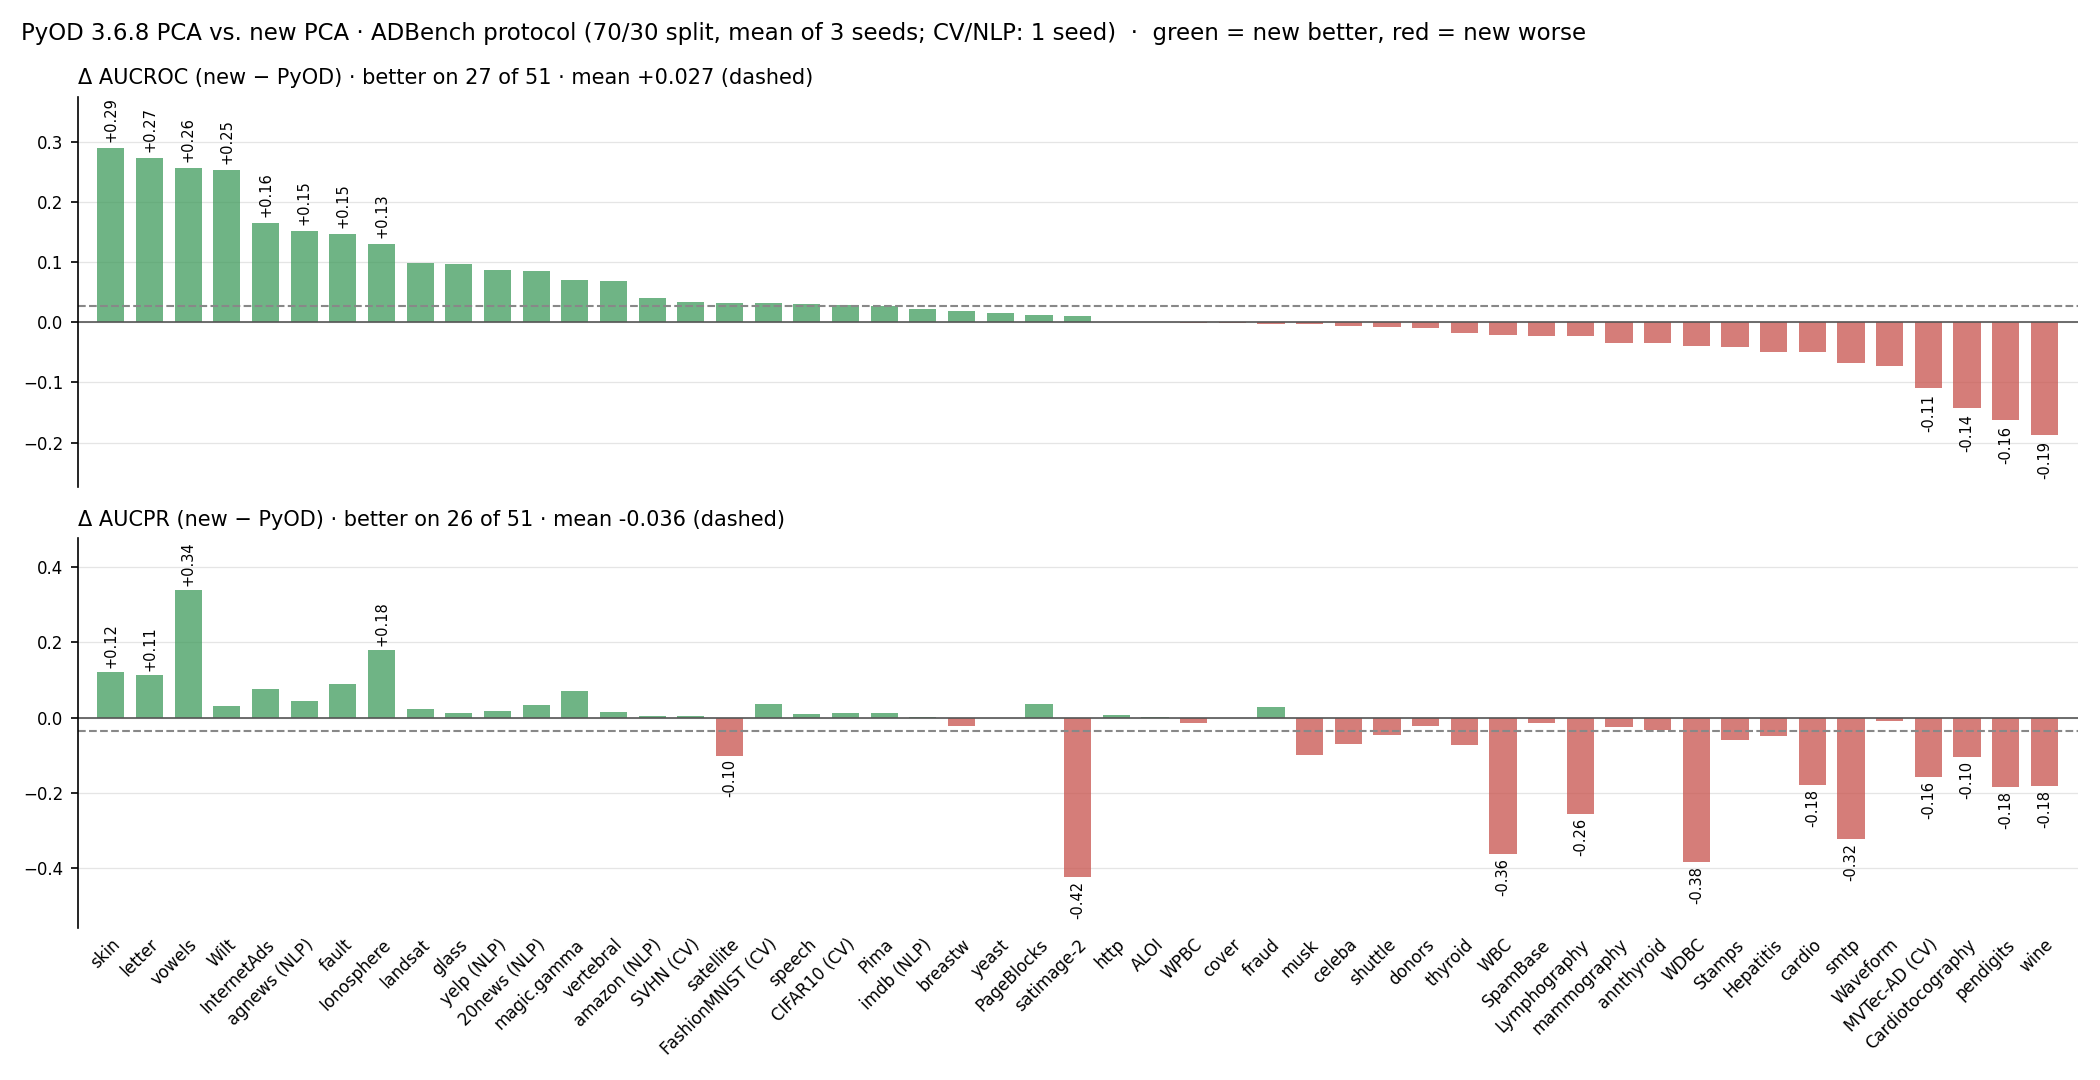
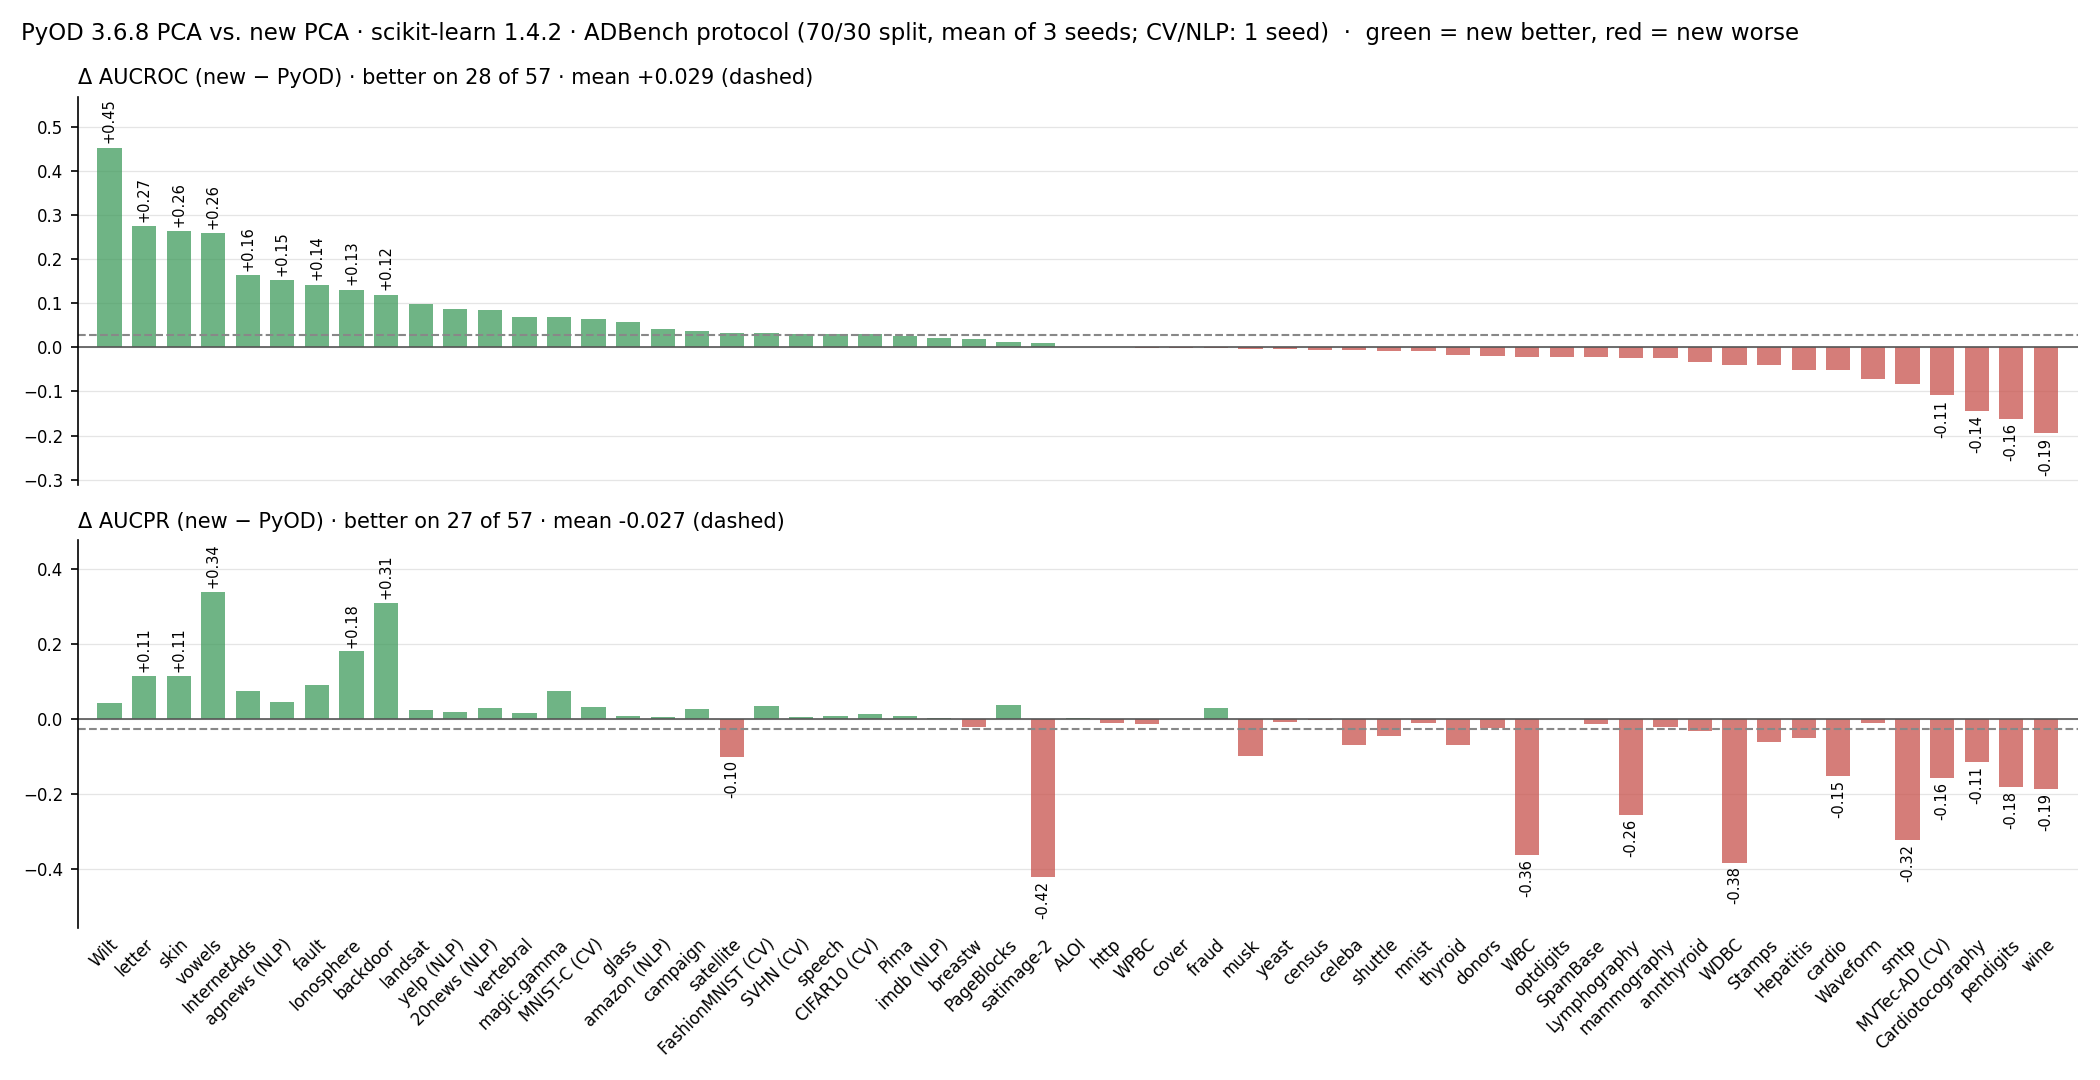
adds description of sign problem more specific with scikit learn version

diff --git a/_posts/2027-04-30-pca-pyod-v2.md b/_posts/2027-04-30-pca-pyod-v2.md
@@ -166,7 +166,7 @@ The following figure illustrates this ($$\rho = 0.99$$, standardized). The conto
     </div>
 </div>
 <div class="caption">
-    Anomalies near the center that break the correlation. Left: PyOD 3.6.8 (ROC AUC 0.478, 0 of 30 anomalies detected). Right: our fix (ROC AUC 0.992, 26 of 30). Code: <a href="https://anonymous.4open.science/r/iclr_2027_blogpost_pca_code-5E5D/blog_post.ipynb">blog_post.ipynb, Section 2</a>.
+    Anomalies near the center that break the correlation. Left: PyOD 3.6.8 with scikit-learn 1.6.1 (ROC AUC 0.478, 0 of 30 anomalies detected). Right: our fix (ROC AUC 0.992, 26 of 30). Code: <a href="https://anonymous.4open.science/r/iclr_2027_blogpost_pca_code-5E5D/blog_post.ipynb">blog_post.ipynb, Section 2</a>.
 </div>
 
 <a id="problem-2"></a>
@@ -195,8 +195,11 @@ The following figure illustrates this on two correlated features ($$\rho = 0.9$$
     </div>
 </div>
 <div class="caption">
-    Anomalies on both sides of the centroid that break the correlation. Left: PyOD 3.6.8 (ROC AUC 0.754, 6 of 15 anomalies detected), contours shifted toward the minor eigenvector tip. Right: our fix (ROC AUC 0.998, 15 of 15), centered ellipses. Code: <a href="https://anonymous.4open.science/r/iclr_2027_blogpost_pca_code-5E5D/blog_post.ipynb">blog_post.ipynb, Section 1</a>.
+    Anomalies on both sides of the centroid that break the correlation. Left: PyOD 3.6.8 with scikit-learn 1.6.1 (ROC AUC 0.754, 6 of 15 anomalies detected), contours shifted toward the minor eigenvector tip. Right: our fix (ROC AUC 0.998, 15 of 15), centered ellipses. Code: <a href="https://anonymous.4open.science/r/iclr_2027_blogpost_pca_code-5E5D/blog_post.ipynb">blog_post.ipynb, Section 1</a>.
 </div>
+
+**The convention has changed**\
+The sign is not only a theoretical concern. Since version 1.5, scikit-learn sets the sign of `components_` based on the component values instead of the transformed data <d-cite key="sklearn15changelog"></d-cite>. On the data of the figure above and with the same PyOD version, the convention before 1.5 flips $$\mathbf{e}_2$$, which shifts the contours to the upper left and lowers ROC AUC from 0.754 to 0.680. On the Wilt dataset of ADBench, ROC AUC is 0.204 with scikit-learn 1.4.2 and 0.402 with scikit-learn 1.6.1 ([How far it spread](#impact)). PyOD's scores therefore depend not only on the PyOD version, but also on the scikit-learn version. The PCC score and our fix are unaffected.
 
 <a id="fix"></a>
 ### The fix
@@ -223,7 +226,7 @@ The following video compares PyOD 3.6.8 (left) with our fix (right) on three fea
   Your browser does not support the video tag.
 </video>
 <div class="caption">
-    Observations added over time on three correlated features. Left: PyOD 3.6.8. Right: our fix. Code: <a href="https://anonymous.4open.science/r/iclr_2027_blogpost_pca_code-5E5D/blog_post.ipynb">blog_post.ipynb, Section 4</a>.
+    Observations added over time on three correlated features. Left: PyOD 3.6.8 with scikit-learn 1.6.1. Right: our fix. Code: <a href="https://anonymous.4open.science/r/iclr_2027_blogpost_pca_code-5E5D/blog_post.ipynb">blog_post.ipynb, Section 4</a>.
 </div>
 
 PyOD's spherical contours are shifted toward the tip of the minor eigenvector $$\mathbf{e}_3$$, so anomalies that break the correlation are classified as normal. The ellipsoidal contours of our fix follow the shape of the data and flag these anomalies correctly.
@@ -245,7 +248,7 @@ Using the GitHub code search API <d-cite key="githubCodeSearchAPI"></d-cite>, we
 | 4 | [datamllab/tods](https://github.com/datamllab/tods) | 1667 | TODS: An Automated Time-series Outlier Detection System |
 | 5 | [Minqi824/ADBench](https://github.com/Minqi824/ADBench) | 1033 | Official Implement of "ADBench: Anomaly Detection Benchmark", NeurIPS 2022. |
 
-The last entry is the official implementation of ADBench, an anomaly detection benchmark published at NeurIPS 2022. Han et al. <d-cite key="NEURIPS2022_cf93972b"></d-cite> evaluate 30 algorithms on 57 datasets, including PyOD's PCA with default parameters <d-cite key="adbenchPyODWrapper"></d-cite>. ADBench pins `pyod==1.0.0` <d-cite key="adbenchRequirements"></d-cite>, whose scoring code is identical to that of version 3.6.8 <d-cite key="pyodPCA100"></d-cite>. We reran its PCA baseline following the ADBench protocol, with three seeds per dataset (one for the CV and NLP datasets, as in ADBench), and compared it with the fixed detector in terms of ROC AUC and average precision (AP). Our PyOD results closely match the published ones <d-cite key="adbenchSupplement"></d-cite>. The protocol, the reproduction, and the full results are described in the [README of our code](https://anonymous.4open.science/r/iclr_2027_blogpost_pca_code-5E5D/adBench/README.md).
+The last entry is the official implementation of ADBench, an anomaly detection benchmark published at NeurIPS 2022. Han et al. <d-cite key="NEURIPS2022_cf93972b"></d-cite> evaluate 30 algorithms on 57 datasets, including PyOD's PCA with default parameters <d-cite key="adbenchPyODWrapper"></d-cite>. ADBench pins `pyod==1.0.0` <d-cite key="adbenchRequirements"></d-cite>, whose scoring code is identical to that of version 3.6.8 <d-cite key="pyodPCA100"></d-cite>, but not scikit-learn. Because of [Problem 2](#problem-2), this matters. We reran its PCA baseline following the ADBench protocol, with three seeds per dataset (one for the CV and NLP datasets, as in ADBench's code), and compared it with the fixed detector in terms of ROC AUC and average precision (AP). With scikit-learn 1.4.2, the last release before 1.5, our rerun reproduces the published values <d-cite key="adbenchSupplement"></d-cite> of 54 of the 57 datasets to four decimals. The remaining three, amazon, imdb and yelp, match as well once we average over three seeds instead of one, as ADBench apparently did for them. With scikit-learn 1.6.1, the same code deviates by up to 0.198 in ROC AUC, and it fails on six datasets, because the new default solver returns eigenvalues of exactly zero. Our fix yields the same results under both versions. We therefore compare against PyOD with scikit-learn 1.4.2, i.e., against the published numbers. The protocol, the reproduction, and the full results are described in the [README of our code](https://anonymous.4open.science/r/iclr_2027_blogpost_pca_code-5E5D/adBench/README.md).
 
 <div class="row mt-3">
     <div class="col-sm-12 mx-auto">
@@ -253,17 +256,17 @@ The last entry is the official implementation of ADBench, an anomaly detection b
     </div>
 </div>
 <div class="caption">
-    Change in ROC AUC and AP per ADBench dataset (fix − PyOD 3.6.8), mean over seeds, 51 comparable datasets. Green: fix better, red: fix worse. Code: <a href="https://anonymous.4open.science/r/iclr_2027_blogpost_pca_code-5E5D/adBench/run_adbench_pca.py">adBench/run_adbench_pca.py</a>.
+    Change in ROC AUC and AP per ADBench dataset (fix − PyOD 3.6.8 with scikit-learn 1.4.2), mean over seeds, all 57 datasets. Green: fix better, red: fix worse. Code: <a href="https://anonymous.4open.science/r/iclr_2027_blogpost_pca_code-5E5D/adBench/run_adbench_pca.py">adBench/run_adbench_pca.py</a>.
 </div>
 
-With current library versions, PyOD's PCA fails on six datasets because of zero eigenvalues, so we compare both detectors on the remaining 51. Following Demšar <d-cite key="demsar2006statistical"></d-cite>, we use a two-sided Wilcoxon signed-rank test over datasets <d-cite key="wilcoxon1945individual"></d-cite> and report the mean change with a bootstrap 95% confidence interval over datasets as effect size.
+Following Demšar <d-cite key="demsar2006statistical"></d-cite>, we use a two-sided Wilcoxon signed-rank test over datasets <d-cite key="wilcoxon1945individual"></d-cite>.
 
-| Metric | PyOD 3.6.8 | Fix | Mean change [95% CI] | Fix better / worse | $$p$$ |
-|---|---:|---:|---|---|---:|
-| ROC AUC | 0.718 | 0.744 | +0.027 [−0.000, +0.055] | 27 / 24 | 0.16 |
-| AP | 0.357 | 0.320 | −0.036 [−0.074, +0.000] | 26 / 25 | 0.22 |
+| Metric | PyOD 3.6.8 | Fix | Fix better / worse | $$p$$ |
+|---|---:|---:|---|---:|
+| ROC AUC | 0.717 | 0.746 | 28 / 29 | 0.13 |
+| AP | 0.342 | 0.316 | 27 / 30 | 0.34 |
 
-Neither difference is significant. Per dataset, however, ROC AUC changes by at least 0.05 on 21 of the 51 datasets and AP on 22, several times the standard deviation over seeds (about 0.02).
+Neither difference is significant in the Wilcoxon test. The higher mean ROC AUC stems from a few datasets with large gains, such as Wilt (+0.45); the fix is better on 28 datasets and worse on 29. Per dataset, however, ROC AUC changes by at least 0.05 on 24 of the 57 datasets and AP on 24, several times the standard deviation over seeds (about 0.02).
 
 **Does the deviation matter?**\
 Within ADBench, it does. Among the 14 unsupervised algorithms, the fix moves PCA from fifth to first place in average ROC AUC rank (6.33 → 5.07) and to second place in AP. With our own PyOD rerun instead, the rank barely changes (6.40), so the shift comes from the score. Anyone choosing a baseline from ADBench would therefore judge PCA differently, although ADBench's finding that no unsupervised algorithm is statistically better than all others still holds.
@@ -271,7 +274,7 @@ Within ADBench, it does. Among the 14 unsupervised algorithms, the fix moves PCA
 **Testing the theory**\
 ADBench can also replace the anomalies of its classical datasets with synthetic ones <d-cite key="NEURIPS2022_cf93972b"></d-cite>. [Problem 1](#problem-1) predicts that the fix wins on *dependency* anomalies, which break the correlation without lying far from the center, and that PyOD keeps up on *global* anomalies, which lie far from it. Both predictions hold. On dependency anomalies, ROC AUC rises from 0.652 to 0.892, and the fix is better on all 17 datasets. On global anomalies, both detectors are nearly perfect (0.993 and 0.997). On *cluster* anomalies, however, the fix is clearly worse (0.979 → 0.893). These anomalies are part of the training data, so they stretch the covariance in their own direction and mask themselves. Trained on normal data only, the fix recovers (e.g., from 0.743 to 0.984 on fault). Shyu et al. counter such contamination by trimming the training data, a step that PyOD and our fix omit.
 
-ADBench's PCA results are reproducible, but the code behind them is not verified. They are a correct measurement of PyOD's implementation, reported under a method whose cited definition they do not follow. With the cited score, PCA would have ranked differently.
+ADBench's PCA results are reproducible only under a condition its repository does not state: a scikit-learn version before 1.5. And where they can be reproduced, the code behind them is not verified. They are a correct measurement of PyOD's implementation, reported under a method whose cited definition they do not follow. With the cited score, PCA would have ranked differently.
 
 ADBench has been cited 865 times <d-cite key="NEURIPS2022_cf93972b"></d-cite> and the PyOD paper 1,484 times <d-cite key="zhao2019pyod"></d-cite>, although not every citing work uses the PCA detector. We found no reliable way to count the papers that use PyOD's PCA implementation, but manually confirmed several examples, such as "Conformal prediction interval for dynamic time-series" (416 citations) <d-cite key="xuConformalPredictionInterval2021"></d-cite>, PIDForest (49 citations) <d-cite key="PIDForestAnomalyDetection2019"></d-cite>, and UADB (24 citations) <d-cite key="yeUADBUnsupervisedAnomaly2023"></d-cite>. All citation counts were retrieved from Google Scholar on 15 November 2026.
 
@@ -371,7 +374,7 @@ PyOD's PCA detector cites Shyu et al., but scores observations by a weighted sum
 
 The fixed detector is not uniformly better. On ADBench, ROC AUC and AP change substantially in both directions depending on the dataset, and neither average difference is significant. The changes follow the theory, however. The fix detects anomalies that break the correlation structure, which PyOD's score largely misses, and it loses where anomalies in the training data distort the covariance. Within ADBench, it moves PCA from fifth to first place among the unsupervised algorithms in ROC AUC. Our main finding is therefore not a performance gain. It is that the PCA results reported in ADBench and in papers such as PIDForest and UADB, as well as in 525 repositories that use the detector, were obtained with a score other than the one described in the cited references, although the deviation has been reported since 2019.
 
-These results are reproducible, but the code behind them is not verified. This does not mean that the conclusions of the affected papers are wrong, only that their PCA numbers do not come from the cited method. Fixing the detector does not reach these results, and nothing currently connects a known deviation to the results it affects. Beyond this case, we sketched how known deviations could be made as visible as known vulnerabilities, largely by combining existing pieces: coordinated flaw disclosure, advisories modeled on OSV, VEX-style records for affected results, provenance statements in papers, and warnings in tools researchers already use.
+The code behind these results is not verified, and, as ADBench shows, reproducing them can depend on versions that were never pinned. This does not mean that the conclusions of the affected papers are wrong, only that their PCA numbers do not come from the cited method. Fixing the detector does not reach these results, and nothing currently connects a known deviation to the results it affects. Beyond this case, we sketched how known deviations could be made as visible as known vulnerabilities, largely by combining existing pieces: coordinated flaw disclosure, advisories modeled on OSV, VEX-style records for affected results, provenance statements in papers, and warnings in tools researchers already use.
 
 ### Future work
 Our fix deliberately changes only the score, so that its effect on ADBench can be attributed to this single component. The remaining parts of the PCC, namely trimming, separate major and minor statistics, and two thresholds, are not implemented in PyOD. Such components can substantially change the behavior of a method. A natural next step is to implement the full PCC as a separate detector class and to evaluate its components one at a time. This requires an additional design decision, because the PCC is a classifier with two thresholds, whereas benchmarks such as ADBench evaluate a single continuous score.
